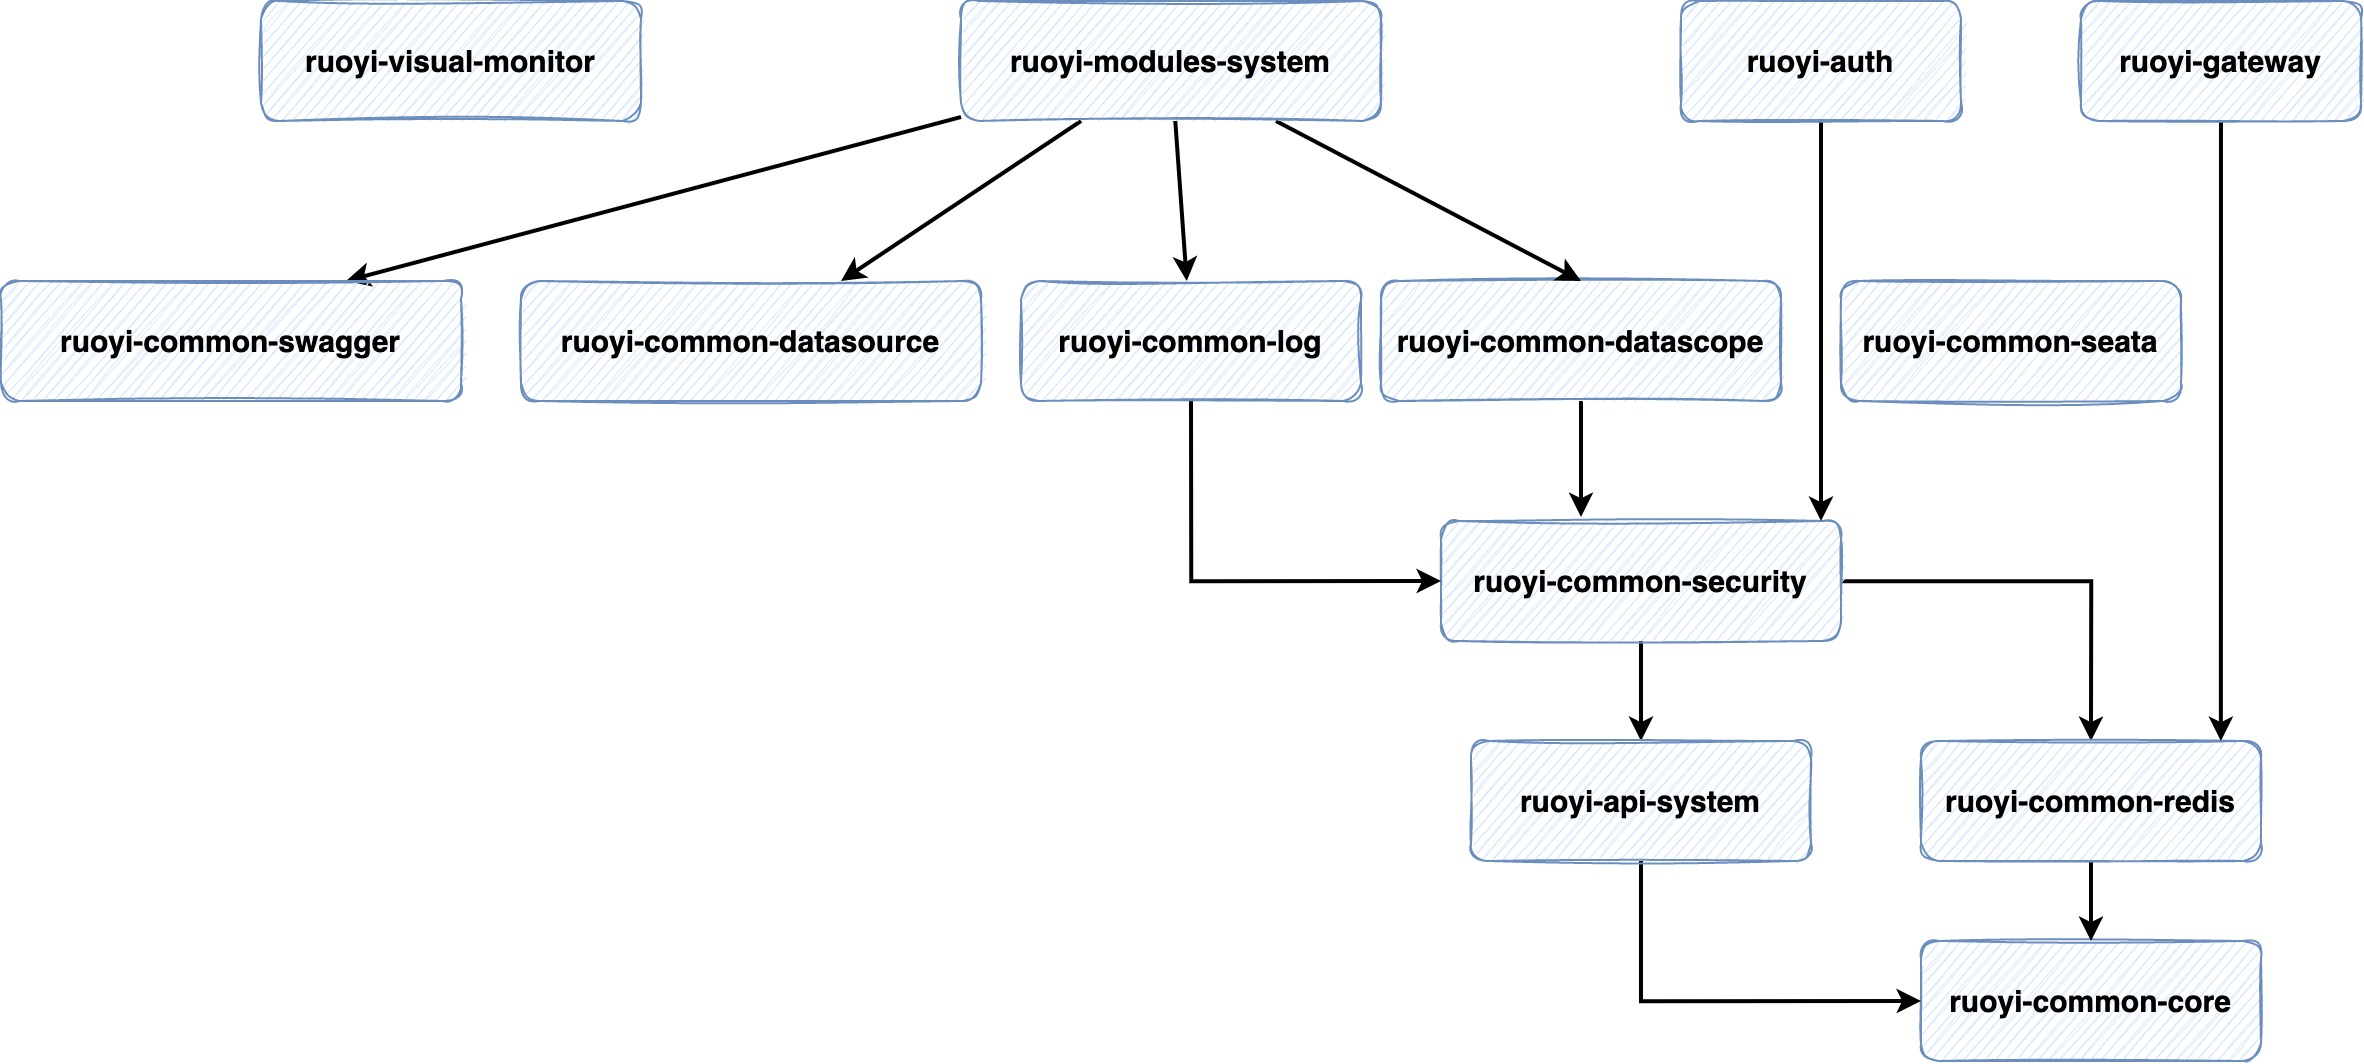
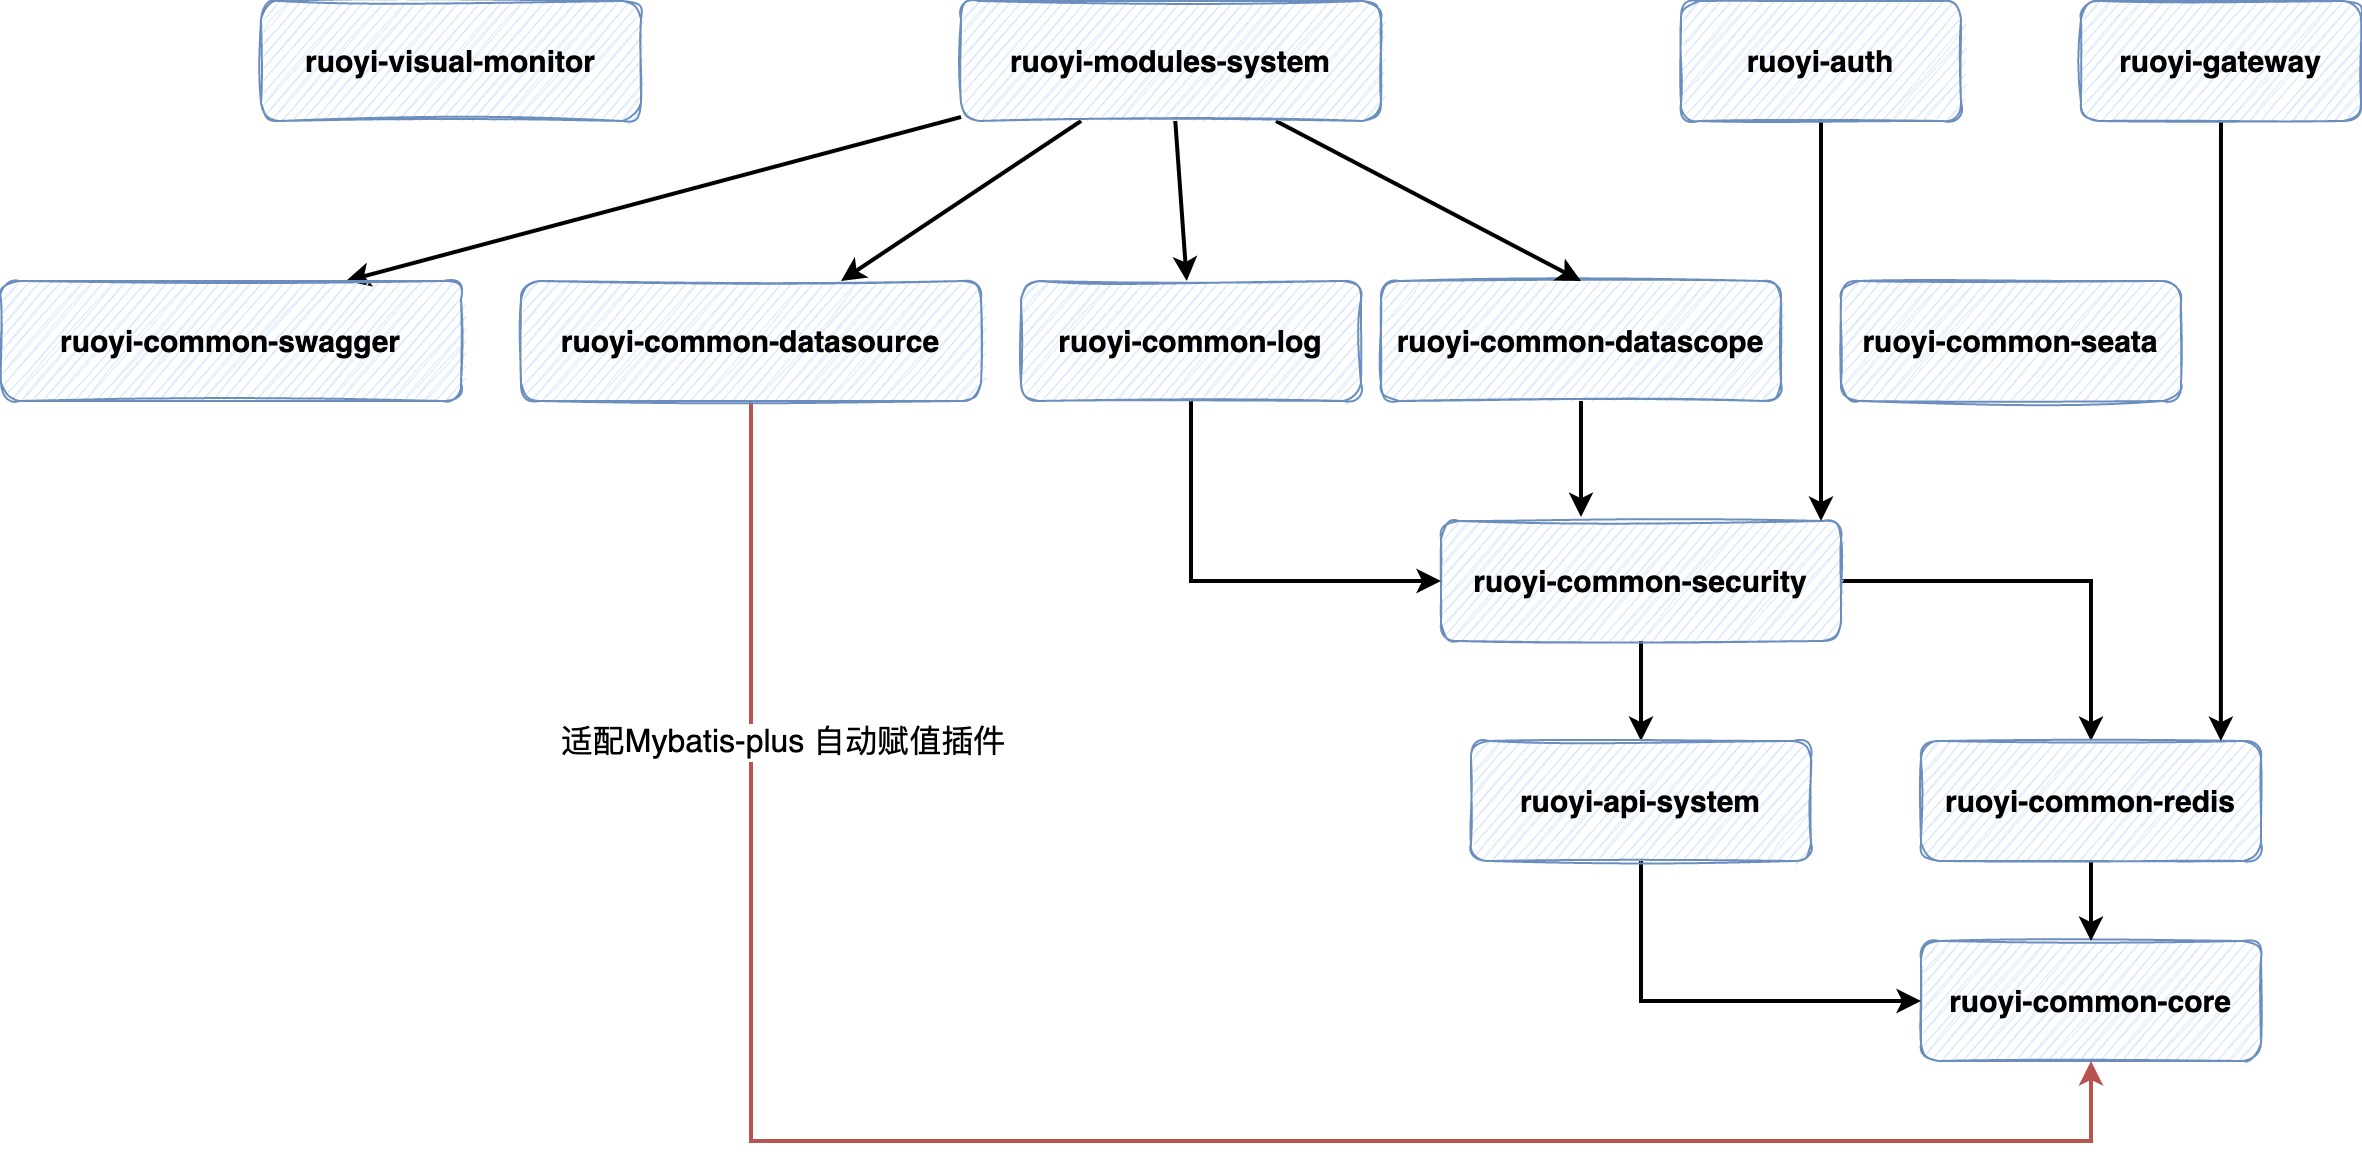
添加mybatis字段自动赋值插件，并修改若依maven依赖

diff --git a/ruoyi-common/ruoyi-common-datasource/src/main/java/com/ruoyi/common/datasource/config/MyMetaObjectHandler.java b/ruoyi-common/ruoyi-common-datasource/src/main/java/com/ruoyi/common/datasource/config/MyMetaObjectHandler.java
@@ -1,0 +1,30 @@
+package com.ruoyi.common.datasource.config;
+
+import com.baomidou.mybatisplus.core.handlers.MetaObjectHandler;
+import com.ruoyi.common.core.context.SecurityContextHolder;
+import org.apache.ibatis.reflection.MetaObject;
+import org.springframework.stereotype.Component;
+
+import java.time.LocalDateTime;
+
+/**
+ * Mybatis-plus 数据执行自动更新
+ *
+ * @author FangYuan33
+ * @since 2022-11-12 10:00:18
+ */
+@Component
+public class MyMetaObjectHandler implements MetaObjectHandler {
+
+    @Override
+    public void insertFill(MetaObject metaObject) {
+        this.strictInsertFill(metaObject, "createUser", SecurityContextHolder::getUserId, Long.class);
+        this.strictInsertFill(metaObject, "createTime", LocalDateTime::now, LocalDateTime.class);
+    }
+
+    @Override
+    public void updateFill(MetaObject metaObject) {
+        this.strictUpdateFill(metaObject, "updateUser", SecurityContextHolder::getUserId, Long.class);
+        this.strictUpdateFill(metaObject, "updateTime", LocalDateTime::now, LocalDateTime.class);
+    }
+}

diff --git a/ruoyi-modules/fy-modules-goods/src/main/java/com/cloud/mall/fy/goodsservice/entity/GoodsCategory.java b/ruoyi-modules/fy-modules-goods/src/main/java/com/cloud/mall/fy/goodsservice/entity/GoodsCategory.java
@@ -1,7 +1,7 @@
 package com.cloud.mall.fy.goodsservice.entity;
 
 import com.baomidou.mybatisplus.annotation.TableName;
-import com.ruoyi.common.core.web.domain.BaseEntityForMall;
+import com.ruoyi.common.datasource.domain.BaseEntityForMall;
 import lombok.Data;
 import lombok.EqualsAndHashCode;
 
@@ -13,7 +13,7 @@ public class GoodsCategory extends BaseEntityForMall {
     /**
      * 分类级别(1-一级分类 2-二级分类 3-三级分类)
      */
-    private Byte categoryLevel;
+    private Integer categoryLevel;
 
     /**
      * 父分类ID
@@ -29,9 +29,4 @@ public class GoodsCategory extends BaseEntityForMall {
      * 排序值(字段越大越靠前)
      */
     private Integer categoryRank;
-
-    /**
-     * 删除标识字段(0-未删除 1-已删除)
-     */
-    private Byte isDeleted;
 }

diff --git a/ruoyi-common/ruoyi-common-datasource/src/main/java/com/ruoyi/common/datasource/domain/BaseEntityForMall.java b/ruoyi-common/ruoyi-common-datasource/src/main/java/com/ruoyi/common/datasource/domain/BaseEntityForMall.java
@@ -1,0 +1,33 @@
+package com.ruoyi.common.datasource.domain;
+
+import com.baomidou.mybatisplus.annotation.FieldFill;
+import com.baomidou.mybatisplus.annotation.TableField;
+import lombok.Data;
+
+import java.time.LocalDateTime;
+
+@Data
+public class BaseEntityForMall {
+
+    /**
+     * 主键
+     */
+    protected Long id;
+
+    @TableField(fill = FieldFill.INSERT)
+    protected Long createUser;
+
+    @TableField(fill = FieldFill.INSERT)
+    protected LocalDateTime createTime;
+
+    @TableField(fill = FieldFill.INSERT_UPDATE)
+    protected Long updateUser;
+
+    @TableField(fill = FieldFill.INSERT_UPDATE)
+    protected LocalDateTime updateTime;
+
+    /**
+     * 删除标识字段(0-未删除 1-已删除)
+     */
+    protected Byte isDeleted;
+}

diff --git a/ruoyi-modules/fy-modules-goods/src/main/java/com/cloud/mall/fy/goodsservice/entity/GoodsInfo.java b/ruoyi-modules/fy-modules-goods/src/main/java/com/cloud/mall/fy/goodsservice/entity/GoodsInfo.java
@@ -1,7 +1,8 @@
 package com.cloud.mall.fy.goodsservice.entity;
 
+import com.baomidou.mybatisplus.annotation.TableField;
 import com.baomidou.mybatisplus.annotation.TableName;
-import com.ruoyi.common.core.web.domain.BaseEntityForMall;
+import com.ruoyi.common.datasource.domain.BaseEntityForMall;
 import lombok.Data;
 import lombok.EqualsAndHashCode;
 
@@ -67,4 +68,7 @@ public class GoodsInfo extends BaseEntityForMall {
      * 商品上架状态 1-上架 0-下架
      */
     private Integer goodsSellStatus;
+
+    @TableField(exist = false)
+    private Byte isDeleted;
 }

diff --git a/ruoyi-modules/fy-modules-goods/src/main/java/com/cloud/mall/fy/goodsservice/controller/param/GoodsCategoryAddParam.java b/ruoyi-modules/fy-modules-goods/src/main/java/com/cloud/mall/fy/goodsservice/controller/param/GoodsCategoryAddParam.java
@@ -16,7 +16,7 @@ public class GoodsCategoryAddParam {
     @NotNull(message = "categoryLevel不能为空")
     @Min(value = 1, message = "分类级别最低为1")
     @Max(value = 3, message = "分类级别最高为3")
-    private Byte categoryLevel;
+    private Integer categoryLevel;
 
     @ApiModelProperty("父类id")
     @NotNull(message = "parentId不能为空")
